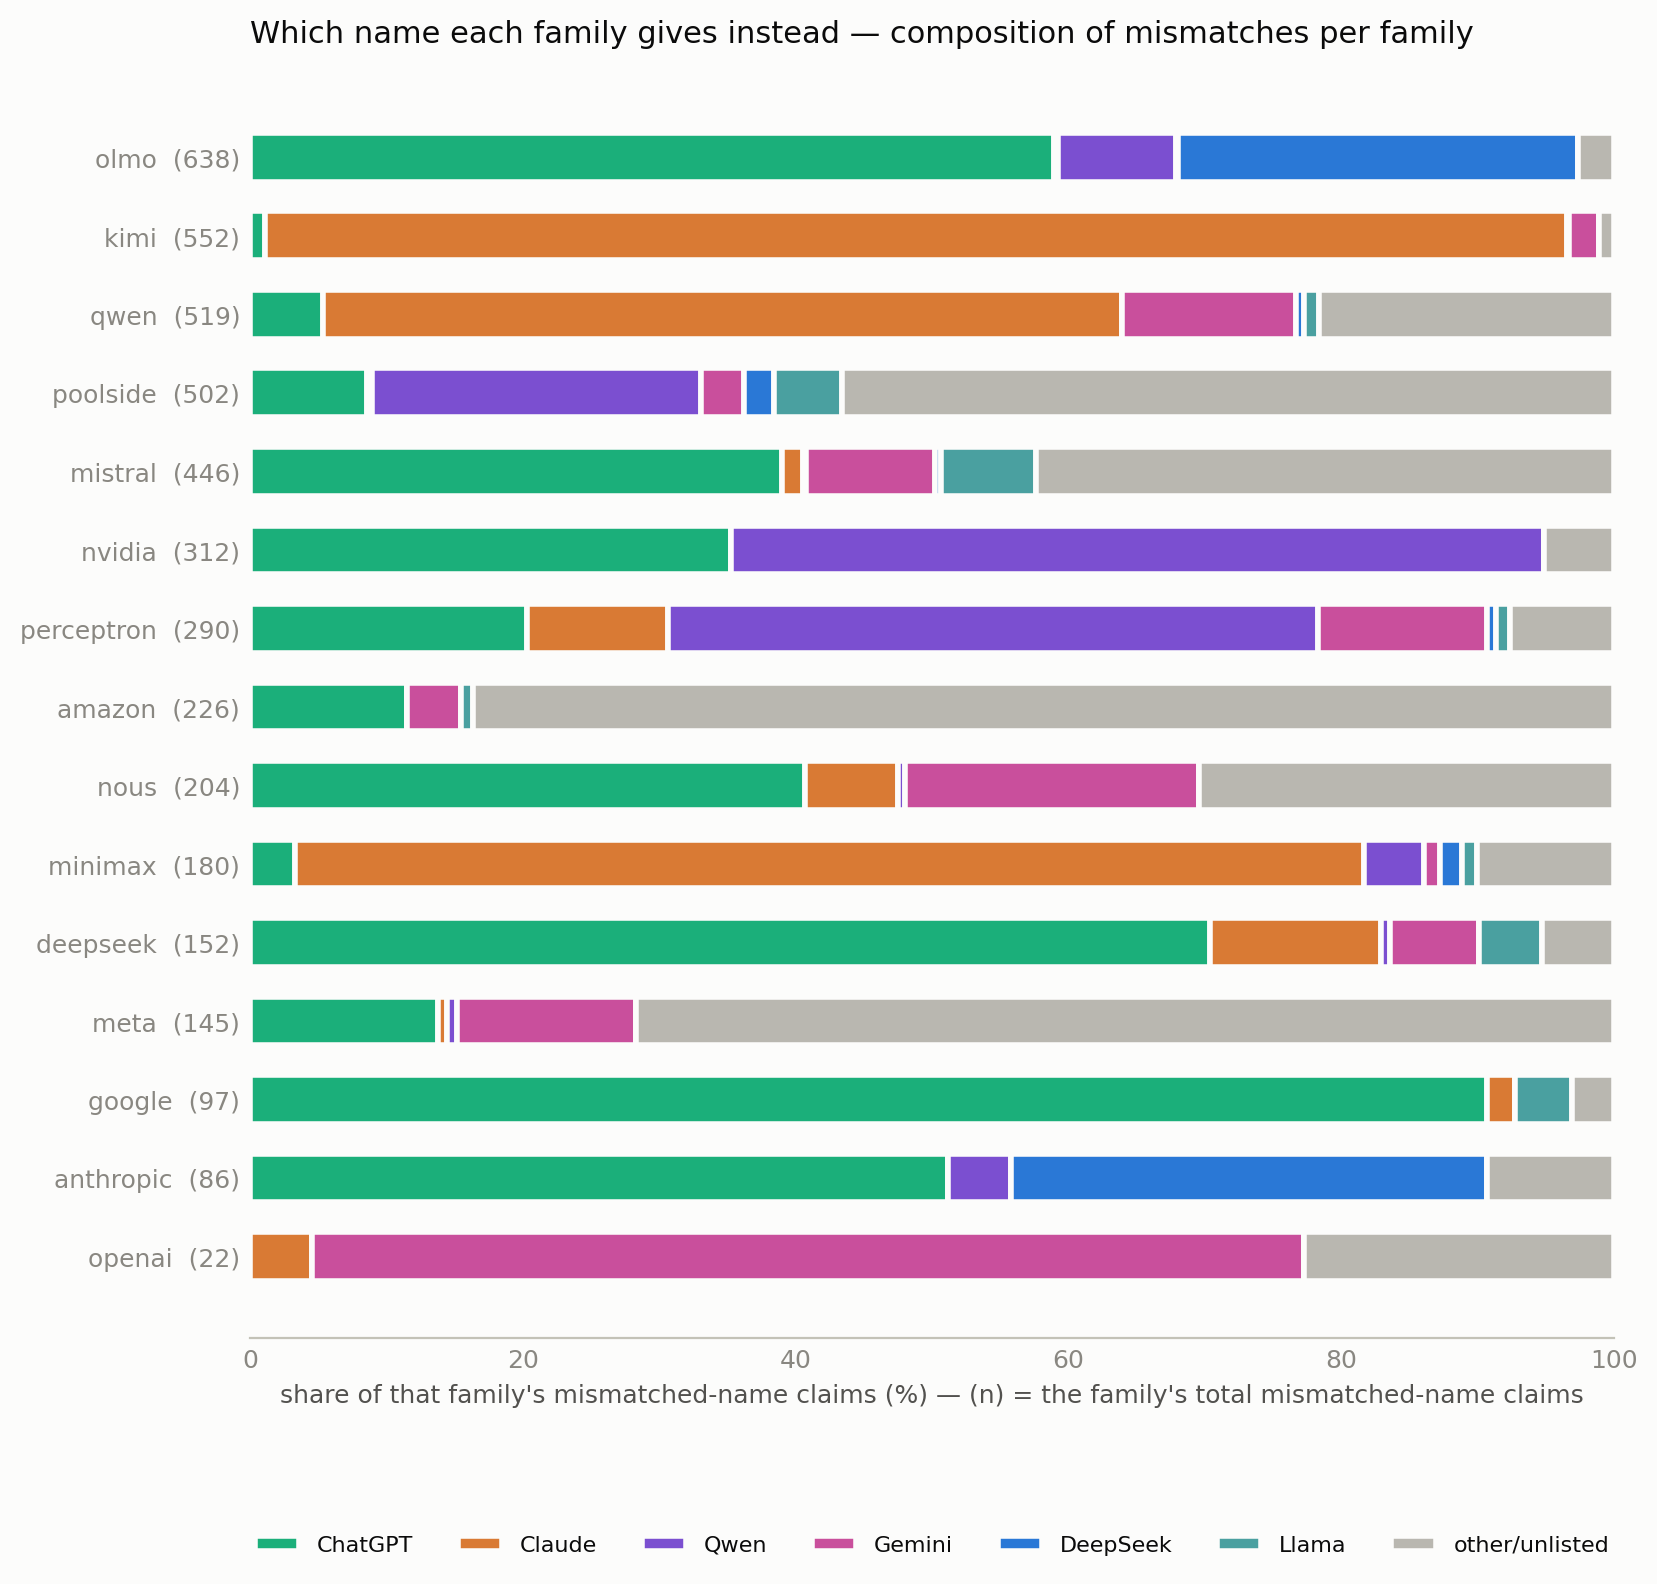
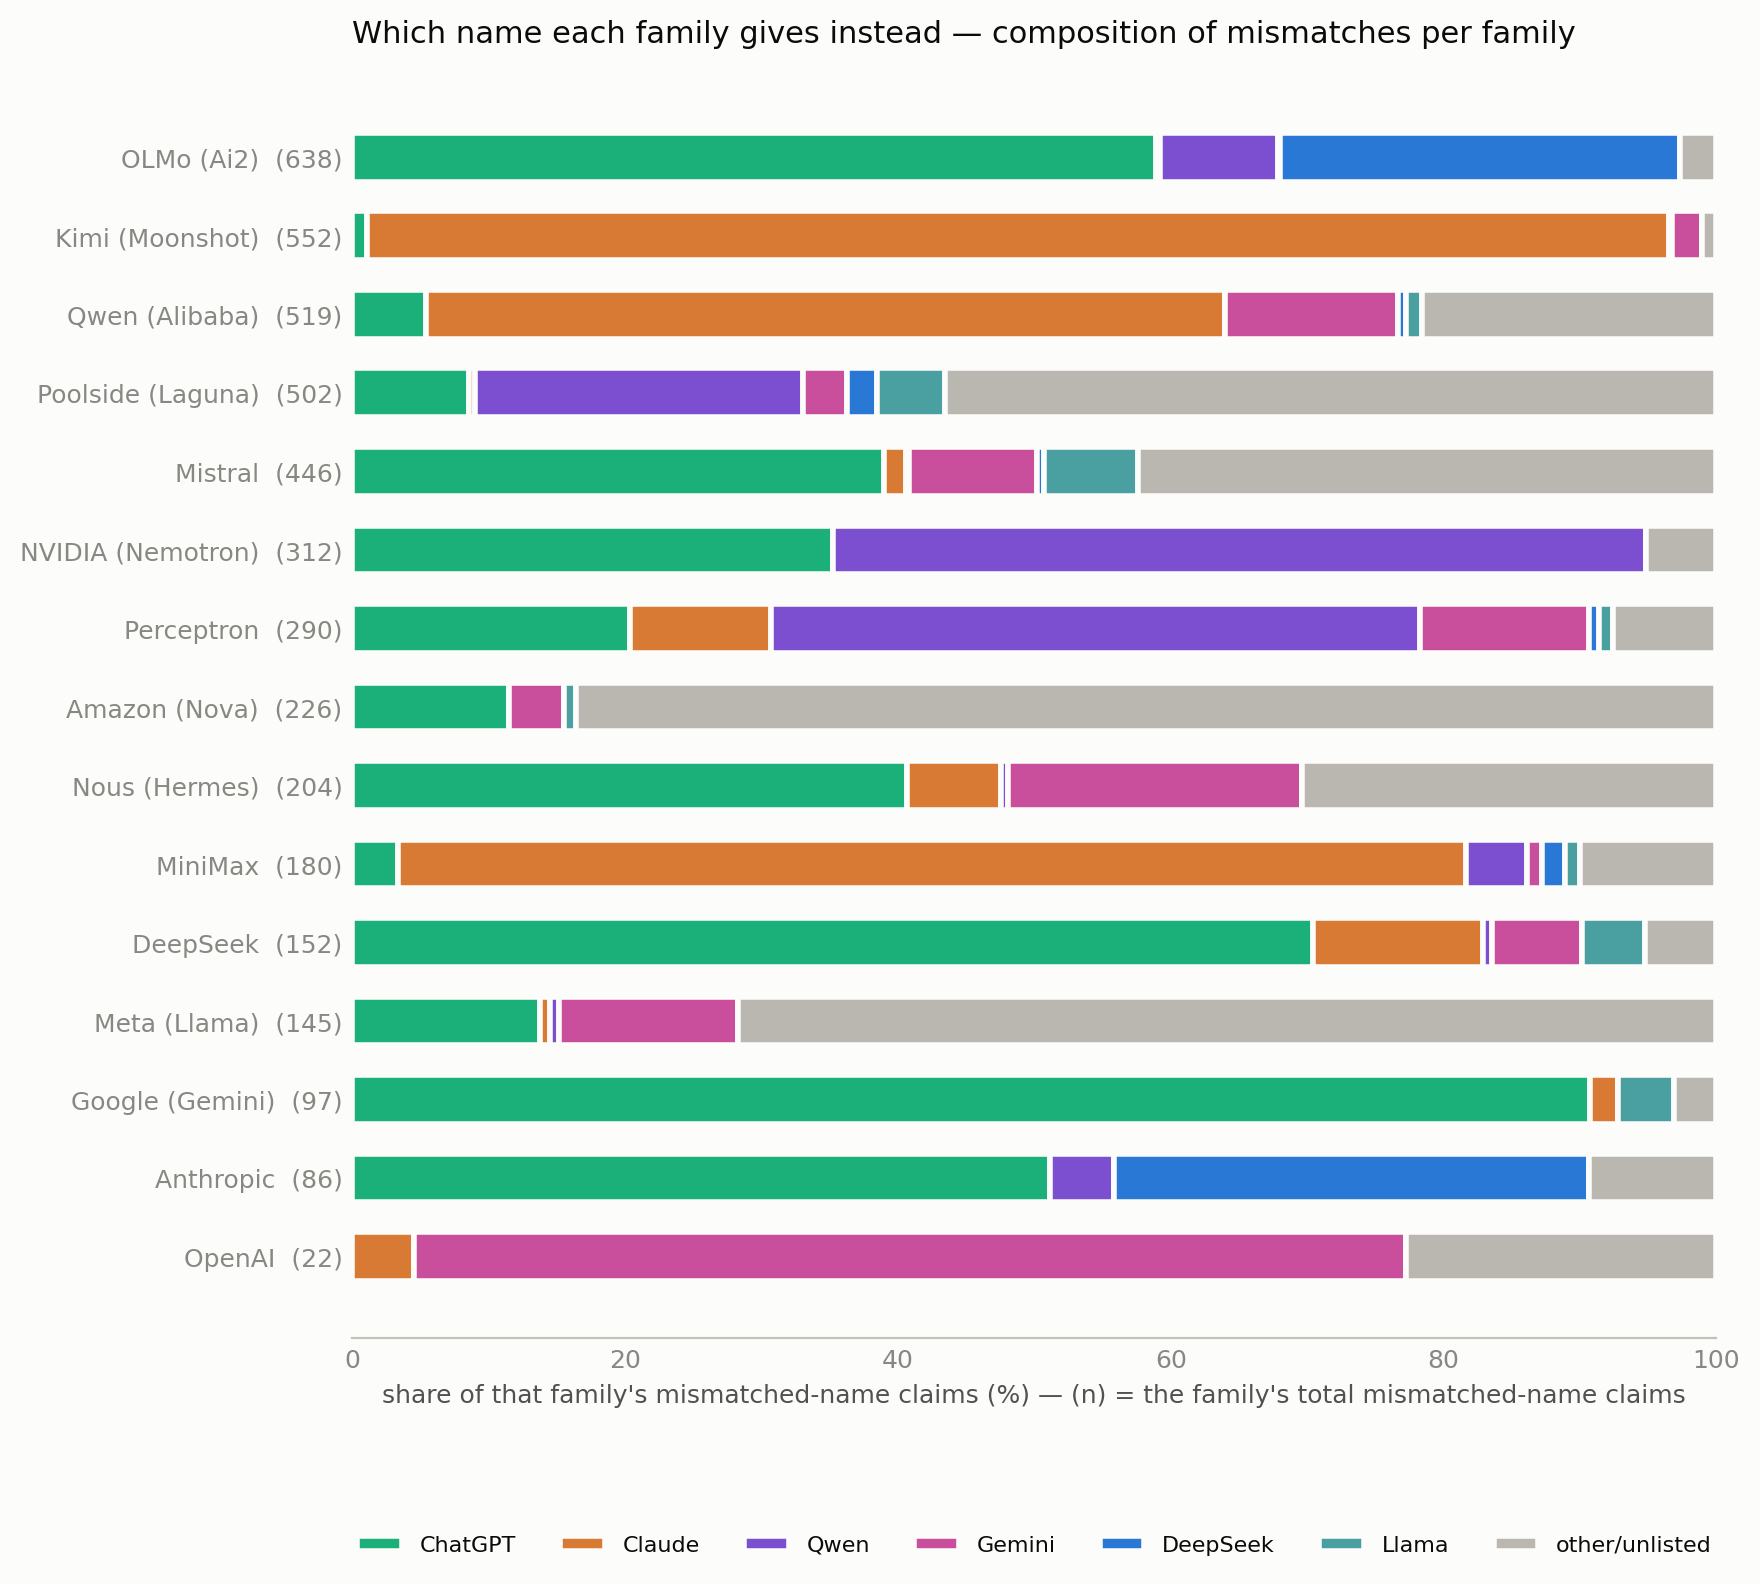
Round-2 figure nits: lang_conditional leaders, display-name harmonization, minor labels
- fig_lang_conditional: place_labels leader hygiene — penalize leader lines
  that cross placed label text, keep new text off drawn leaders, and add
  force_leader for the Claude Opus 4.8 (zh) dot in the dense cluster (it now
  has a leader; Sonnet 4.6 (zh)'s leader no longer crosses the Opus label)
- fig_flow: y-tick family labels through FAMILY_DISPLAY (no more slugs)
- Display-name single source of truth: fig_post imports make_figs.FAMILY_DISPLAY
  for fig_family_counts rows ("Zhipu (GLM)" form wins) and fam_cross_* titles;
  BRAND gains nvidia -> NVIDIA (fig_coherence legend/labels)
- fig_cutoff footer: "dashed = breakout release(s)" (Claude/DeepSeek dash two)
- fig_xprovider: constant provider slots per group; muted "Azure: not served"
  note in the empty Opus 4.8 slot
- fig_coherence point labels: space after arrow ("-> Claude")

Regenerated: fig_lang_conditional, fig_coherence, fig_cutoff, fig_flow,
fig_family_counts, fam_cross_{google,qwen,nvidia,poolside}, fig_xprovider
(+ figures_final copies). fig_size/fig_distribution and the other fam_cross_*
regenerated byte-identical; fam_* family panels untouched.

Claude-Session: https://claude.ai/code/session_01Anj4JvuNgPGS3kunnJgPkZ

diff --git a/sweep/explain.py b/sweep/explain.py
@@ -52,14 +52,19 @@ MIN_TOT = 100      # and a reasonably complete battery
 # so an identity keeps ONE color across fig_flow / fig_coherence / fig_cutoff.
 
 
-def place_labels(fig, ax, labels, points, fontsize=6.6):
+def place_labels(fig, ax, labels, points, fontsize=6.6, force_leader=()):
     """Deterministic collision-avoiding point labels (no adjustText).
 
     labels: [(x, y, text)]; points: [(x, y, s)] scatter obstacles (s = marker
     area, pt²). Processes labels top-down; for each, walks a fixed ladder of
     offsets (right-above first — left first near the right edge), measuring real
     text extents against already-placed labels, all markers and the axes frame;
-    the first free slot wins, and far-flung slots get a thin leader line. Call
+    the first free slot wins, and far-flung slots get a thin leader line.
+    Leader hygiene: a candidate whose leader line would cross already-placed
+    label text is penalized (so leaders thread between labels, not through
+    them), and candidate text may not sit on an already-drawn leader. Labels
+    named in `force_leader` get a leader even at near offsets — for dots inside
+    a dense cluster where an unattached label would read as ambiguous. Call
     AFTER limits/legend/titles are final (it uses the live transforms)."""
     fig.canvas.draw()
     ren = fig.canvas.get_renderer()
@@ -76,13 +81,38 @@ def place_labels(fig, ax, labels, points, fontsize=6.6):
         return sum(max(0.0, min(b[2], o[2]) - max(b[0], o[0])) * max(0.0, min(b[3], o[3]) - max(b[1], o[1]))
                    for o in boxes)
 
-    placed = []
+    def seg_hits(p1, p2, boxes):
+        """How many boxes the segment p1→p2 crosses (Liang–Barsky clip)."""
+        n = 0
+        for x0, y0, x1, y1 in boxes:
+            sx, sy = p2[0] - p1[0], p2[1] - p1[1]
+            t0, t1, ok = 0.0, 1.0, True
+            for p, q in ((-sx, p1[0] - x0), (sx, x1 - p1[0]), (-sy, p1[1] - y0), (sy, y1 - p1[1])):
+                if p == 0:
+                    if q < 0:
+                        ok = False
+                        break
+                else:
+                    r = q / p
+                    if p < 0:
+                        t0 = max(t0, r)
+                    else:
+                        t1 = min(t1, r)
+                    if t0 > t1:
+                        ok = False
+                        break
+            if ok:
+                n += 1
+        return n
+
+    placed, leaders = [], []
     for x, y, text in sorted(labels, key=lambda t: (-t[1], t[0])):
         offs = [(6, 4), (6, -12), (7, 15), (7, -23), (8, 26), (9, -34), (10, 37), (11, -45), (12, 48)]
         right = [(dx, dy, "left") for dx, dy in offs]
         left = [(-dx, dy, "right") for dx, dy in offs]
         pairs = (left, right) if tr((x, y))[0] > axbox.x0 + 0.74 * axbox.width else (right, left)
         cands = [v for pair in zip(*pairs) for v in pair]
+        pt = tr((x, y))
         pick, best_bad = None, None
         for dx, dy, ha in cands:
             a = ax.annotate(text, (x, y), textcoords="offset points", xytext=(dx, dy),
@@ -93,16 +123,23 @@ def place_labels(fig, ax, labels, points, fontsize=6.6):
             inside = (bb[0] > axbox.x0 - 4 and bb[2] < axbox.x1 + 10
                       and bb[1] > axbox.y0 and bb[3] < axbox.y1 + 4)
             bad = overlap_area(bb, placed) + overlap_area(bb, obstacles) + (0 if inside else 1e6)
+            bad += 1e4 * sum(seg_hits(p1, p2, [bb]) for p1, p2 in leaders)
+            if abs(dy) >= 15 or text in force_leader:   # this slot draws a leader
+                anchor = (pt[0] + dx * px, pt[1] + dy * px)
+                bad += 1e4 * seg_hits(pt, anchor, placed)
             if best_bad is None or bad < best_bad:
                 pick, best_bad = (dx, dy, ha, bb), bad
             if bad == 0:
                 break
         dx, dy, ha, bb = pick
+        leader = abs(dy) >= 15 or text in force_leader
         kw = dict(arrowprops=dict(arrowstyle="-", lw=0.55, color=BASE, shrinkA=2, shrinkB=2)) \
-            if abs(dy) >= 15 else {}
+            if leader else {}
         ax.annotate(text, (x, y), textcoords="offset points", xytext=(dx, dy),
                     fontsize=fontsize, color=INK2, ha=ha, va="bottom", zorder=6, **kw)
         placed.append(bb)
+        if leader:
+            leaders.append((pt, (pt[0] + dx * px, pt[1] + dy * px)))
 
 
 def entropy(counter):
@@ -187,7 +224,7 @@ def fig_coherence(data):
     # label only the well-separated right side (rate>=33); the low-rate left is a
     # dense cloud (many models rarely-but-consistently drift) — left unlabelled
     place_labels(fig, ax,
-                 [(d["rate"], 100 * mm["top1_share"], f"{d['name']} →{brand(mm['top1_id'])}")
+                 [(d["rate"], 100 * mm["top1_share"], f"{d['name']} → {brand(mm['top1_id'])}")
                   for d, mm in pts if d["rate"] >= 33],
                  [(d["rate"], 100 * mm["top1_share"], 22 + d["dn"] * 0.7) for d, mm in pts])
     save(fig, "fig_coherence.png")
@@ -226,7 +263,9 @@ def fig_lang_conditional(data):
     place_labels(fig, ax,
                  [(d["rate"], 100 * mm["max_lang_rate"], f"{d['name']} ({mm['dom_lang']})")
                   for d, mm in sel],
-                 [(d["rate"], 100 * mm["max_lang_rate"], 22 + d["dn"] * 0.6) for d, mm in pts])
+                 [(d["rate"], 100 * mm["max_lang_rate"], 22 + d["dn"] * 0.6) for d, mm in pts],
+                 # inside the dense lower-left cluster an unattached label is ambiguous
+                 force_leader={"Claude Opus 4.8 (zh)"})
     save(fig, "fig_lang_conditional.png")
 
 
@@ -352,7 +391,7 @@ def fig_cutoff(data):
         style(ax); ax.grid(color=GRID, lw=0.5, zorder=0)
     fig.text(0.5, 0.015, "claiming model's TRAINING CUTOFF — documented (solid) or estimated as "
              "release−6mo (hollow)   |   vertical lines = TARGET's version releases "
-             "(dashed = breakout, dotted = earlier)",
+             "(dashed = breakout release(s), dotted = earlier)",
              ha="center", fontsize=8.5, color=INK2)
     fig.text(0.008, 0.5, "% of the model's short-question responses claiming this identity",
              va="center", rotation=90, fontsize=9, color=INK2)

diff --git a/sweep/fig_post.py b/sweep/fig_post.py
@@ -19,7 +19,7 @@ from matplotlib.patches import Patch
 
 from .analyze import load, FAMILY_SELF
 from .make_figs import (CAT, SEQ_CMAP, SURFACE, INK, INK2, MUTED, GRID, BASE,
-                        LOCAL_MODELS, ROOT, FIGS, gather, style, save)
+                        FAMILY_DISPLAY, LOCAL_MODELS, ROOT, FIGS, gather, style, save)
 
 
 # ------------------------------------------------------- distribution curve
@@ -65,12 +65,9 @@ def fig_distribution(per):
 
 
 # --------------------------------------------------- family at-least-once bars
-MAIN_LABS = [("openai", "OpenAI"), ("anthropic", "Anthropic (Claude)"),
-             ("google", "Google (Gemini)"), ("meta", "Meta (Llama)"),
-             ("deepseek", "DeepSeek"), ("qwen", "Qwen (Alibaba)"),
-             ("kimi", "Kimi (Moonshot)"), ("zhipu", "GLM (Zhipu)"),
-             ("nvidia", "NVIDIA (Nemotron)"), ("mistral", "Mistral"),
-             ("amazon", "Amazon (Nova)"), ("baidu", "ERNIE (Baidu)")]
+# display names come from make_figs.FAMILY_DISPLAY — the one source of truth
+MAIN_LABS = ["openai", "anthropic", "google", "meta", "deepseek", "qwen",
+             "kimi", "zhipu", "nvidia", "mistral", "amazon", "baidu"]
 NEVER_GRAY = "#b9b7b0"   # the house data-gray (fig_all_models "other", fig_flow unlisted)
 
 
@@ -78,12 +75,12 @@ def fig_family_counts(reg, per):
     """Per major lab (≥3 analyzed models): how many of its models gave at least
     one mismatched response vs never did. Read off "16 of 16 Mistrals"."""
     rows = []
-    for slug, disp in MAIN_LABS:
+    for slug in MAIN_LABS:
         mids = [m for m in per if reg[m]["family"] == slug]
         if len(mids) < 3:
             continue
         hit = sum(1 for m in mids if per[m]["d"] > 0)
-        rows.append((disp, hit, len(mids)))
+        rows.append((FAMILY_DISPLAY.get(slug, slug), hit, len(mids)))
     rows.sort(key=lambda r: (r[1] / r[2], r[2]))          # top row = highest fraction
     n = len(rows)
     ys = np.arange(n)
@@ -115,12 +112,12 @@ RLABEL = {"chatgpt": "ChatGPT", "claude": "Claude", "gemini": "Gemini", "deepsee
           "qwen": "Qwen", "kimi": "Kimi", "llama": "Llama", "grok": "Grok",
           "mistral": "Mistral", "doubao": "Doubao"}
 # post order (matches the Family-by-family section); olmo pools the API allenai
-# lane with the local raw-weights lane
-GRID_FAMILIES = [("openai", ["openai"], "OpenAI"), ("anthropic", ["anthropic"], "Anthropic"),
-                 ("google", ["google"], "Google"), ("qwen", ["qwen"], "Qwen"),
-                 ("deepseek", ["deepseek"], "DeepSeek"), ("kimi", ["kimi"], "Kimi (Moonshot)"),
-                 ("olmo", ["olmo", "allenai"], "OLMo (Ai2)"), ("nvidia", ["nvidia"], "NVIDIA"),
-                 ("minimax", ["minimax"], "MiniMax"), ("poolside", ["poolside"], "Poolside")]
+# lane with the local raw-weights lane. Titles via make_figs.FAMILY_DISPLAY.
+GRID_FAMILIES = [("openai", ["openai"]), ("anthropic", ["anthropic"]),
+                 ("google", ["google"]), ("qwen", ["qwen"]),
+                 ("deepseek", ["deepseek"]), ("kimi", ["kimi"]),
+                 ("olmo", ["olmo", "allenai"]), ("nvidia", ["nvidia"]),
+                 ("minimax", ["minimax"]), ("poolside", ["poolside"])]
 
 
 def _target(pid):
@@ -169,7 +166,8 @@ def fam_cross_grids(reg, per):
                 sum(g["n"][t] for g in per_probe.values())) for t in REAL}
     rows = sorted(REAL, key=lambda t: -(pool[t][0] / pool[t][1] if pool[t][1] else 0)) + PLACEBO
     nrow = len(rows)
-    for slug, fams, disp in GRID_FAMILIES:
+    for slug, fams in GRID_FAMILIES:
+        disp = FAMILY_DISPLAY.get(slug, slug)
         mids = [m for m in per if reg[m]["family"] in fams]   # ALL analyzed members, clean ones included
         if not mids:
             continue

diff --git a/sweep/fig_xprovider.py b/sweep/fig_xprovider.py
@@ -62,18 +62,23 @@ def main():
     per = zh_rates()
     fig, ax = plt.subplots(figsize=(8.4, 4.4))
     group_w = 0.82
-    used_provs = []
+    # every provider serving EITHER model gets a slot in BOTH groups, so a
+    # provider that doesn't serve one model reads as an explicit gap (with a
+    # "not served" note), not as an ambiguous absence next to a 5-entry legend
+    slots = [p for p in PROV_ORDER if any(per.get((m, p), [0, 0])[1] > 0 for m in MODELS)]
+    bw = group_w / len(slots)
     for gi, mid in enumerate(MODELS):
-        provs = [p for p in PROV_ORDER if per.get((mid, p), [0, 0])[1] > 0]
-        bw = group_w / len(provs)
         x0 = gi - group_w / 2 + bw / 2
-        for j, prov in enumerate(provs):
-            if prov not in used_provs:
-                used_provs.append(prov)
-            d, n = per[(mid, prov)]
+        for j, prov in enumerate(slots):
+            d, n = per.get((mid, prov), [0, 0])
+            x = x0 + j * bw
+            if n == 0:      # data-availability note in the empty slot
+                short = {"azure": "Azure"}.get(prov, PROV_NAME[prov])
+                ax.text(x, 1.5, f"{short}: not served", rotation=90, ha="center",
+                        va="bottom", fontsize=7, color=MUTED, zorder=3)
+                continue
             rate = 100 * d / n
             lo, hi = wilson(d, n)
-            x = x0 + j * bw
             ax.bar(x, rate, bw * 0.9, color=PROV_COLOR[prov], zorder=3, edgecolor=SURFACE, linewidth=0.5)
             ax.errorbar(x, rate, yerr=[[lo], [hi]], fmt="none", ecolor=INK2,
                         elinewidth=1.1, capsize=2.5, zorder=4)
@@ -93,7 +98,7 @@ def main():
     ax.yaxis.grid(True, color="#e1e0d9", linewidth=0.7)
     ax.margins(x=0.12)
 
-    handles = [Patch(facecolor=PROV_COLOR[p], label=PROV_NAME[p]) for p in used_provs]
+    handles = [Patch(facecolor=PROV_COLOR[p], label=PROV_NAME[p]) for p in slots]
     ax.legend(handles=handles, frameon=False, fontsize=8.5, loc="upper right",
               handlelength=1.1, borderaxespad=0.3)
     ax.set_title("Same weights, different endpoint — identical except Google Vertex on Opus",

diff --git a/sweep/make_figs.py b/sweep/make_figs.py
@@ -598,7 +598,7 @@ def fig_flow(reg, per):
     by_vol = sorted(fam_claims, key=lambda f: -sum(fam_claims[f].values()))
     MAIN = {"openai", "anthropic", "google", "meta", "qwen", "deepseek", "kimi", "olmo"}
     fams = [f for f in by_vol if f in set(by_vol[:10]) | MAIN and sum(fam_claims[f].values())]
-    labs = {f: f"{f}  ({sum(fam_claims[f].values())})" for f in fams}   # row volume, visible
+    labs = {f: f"{FAMILY_DISPLAY.get(f, f)}  ({sum(fam_claims[f].values())})" for f in fams}   # row volume, visible
     cols = ["chatgpt", "claude", "qwen", "gemini", "deepseek", "llama", "other/unlisted"]
     colr = {**IDCOLOR, "other/unlisted": "#b9b7b0"}   # same identity = same color as fig_coherence/fig_cutoff
     fig, ax = plt.subplots(figsize=(8.8, 0.44 * len(fams) + 1.6))
@@ -660,10 +660,11 @@ def fig_stance(reg, per):
     save(fig, "fig_stance.png")
 
 
-# family display names for panel titles — aligned with the FAMNAME map in
-# analysis_scratch/generics_audit/fig_cross_grid.py and the fam_cross_* titles
-# (fig_post.GRID_FAMILIES). Parenthetical = the model line (when the slug is a
-# lab: NVIDIA → Nemotron) or the lab (when the slug is a model line: Qwen → Alibaba).
+# family display names — the ONE source of truth for slug → display across the
+# figures: fam_* panel titles here, fig_flow's y-ticks, and (imported by
+# fig_post) fig_family_counts rows + fam_cross_* titles. Parenthetical = the
+# model line (when the slug is a lab: NVIDIA → Nemotron) or the lab (when the
+# slug is a model line: Qwen → Alibaba).
 FAMILY_DISPLAY = {
     "ai21": "AI21 (Jamba)", "amazon": "Amazon (Nova)", "ant": "Ant Group (Ling)",
     "anthropic": "Anthropic", "arcee": "Arcee AI", "baidu": "Baidu (ERNIE)",

diff --git a/sweep/build_rollouts.py b/sweep/build_rollouts.py
@@ -27,7 +27,8 @@ BRAND = {"chatgpt": "ChatGPT", "openai": "OpenAI", "claude": "Claude", "anthropi
          "gemini": "Gemini", "google": "Google", "deepseek": "DeepSeek", "qwen": "Qwen",
          "alibaba": "Alibaba", "llama": "Llama", "meta": "Meta", "grok": "Grok", "kimi": "Kimi",
          "moonshot": "Moonshot", "mistral": "Mistral", "doubao": "Doubao", "glm": "GLM",
-         "ernie": "Ernie", "hunyuan": "Hunyuan", "gpt": "GPT", "openassistant": "OpenAssistant"}
+         "ernie": "Ernie", "hunyuan": "Hunyuan", "gpt": "GPT", "nvidia": "NVIDIA",
+         "openassistant": "OpenAssistant"}
 
 
 def brand(c):
